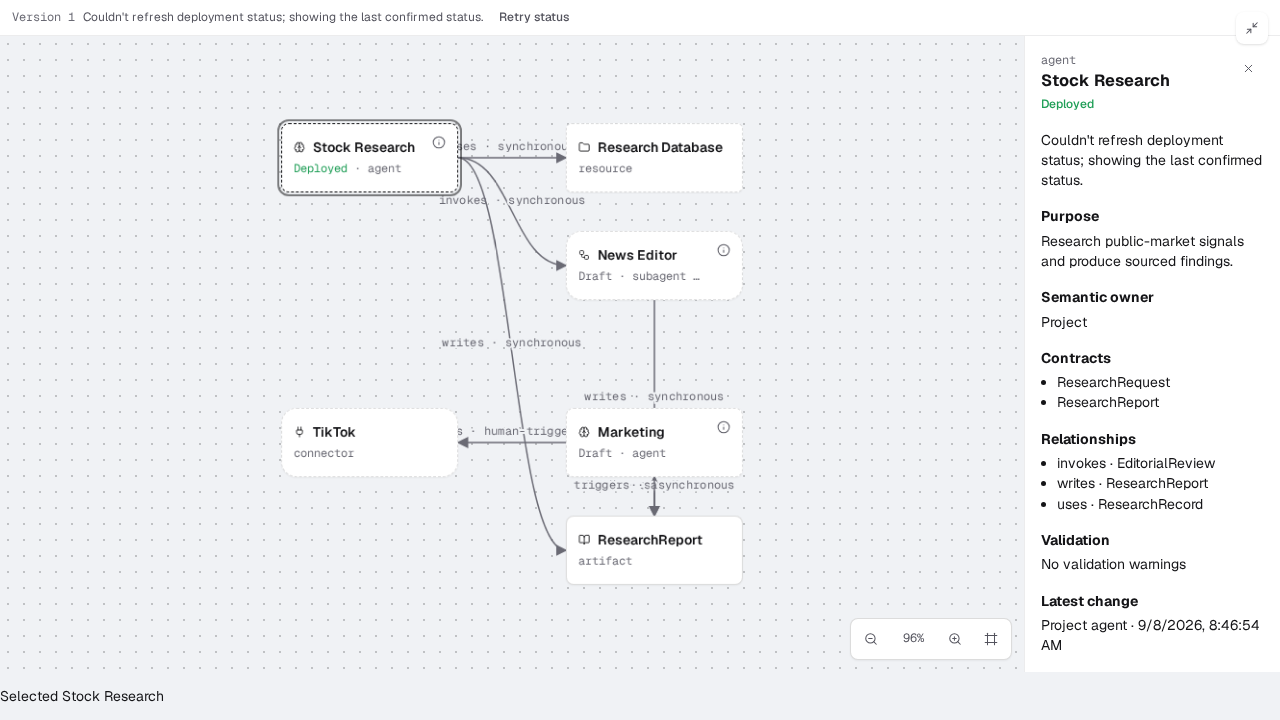
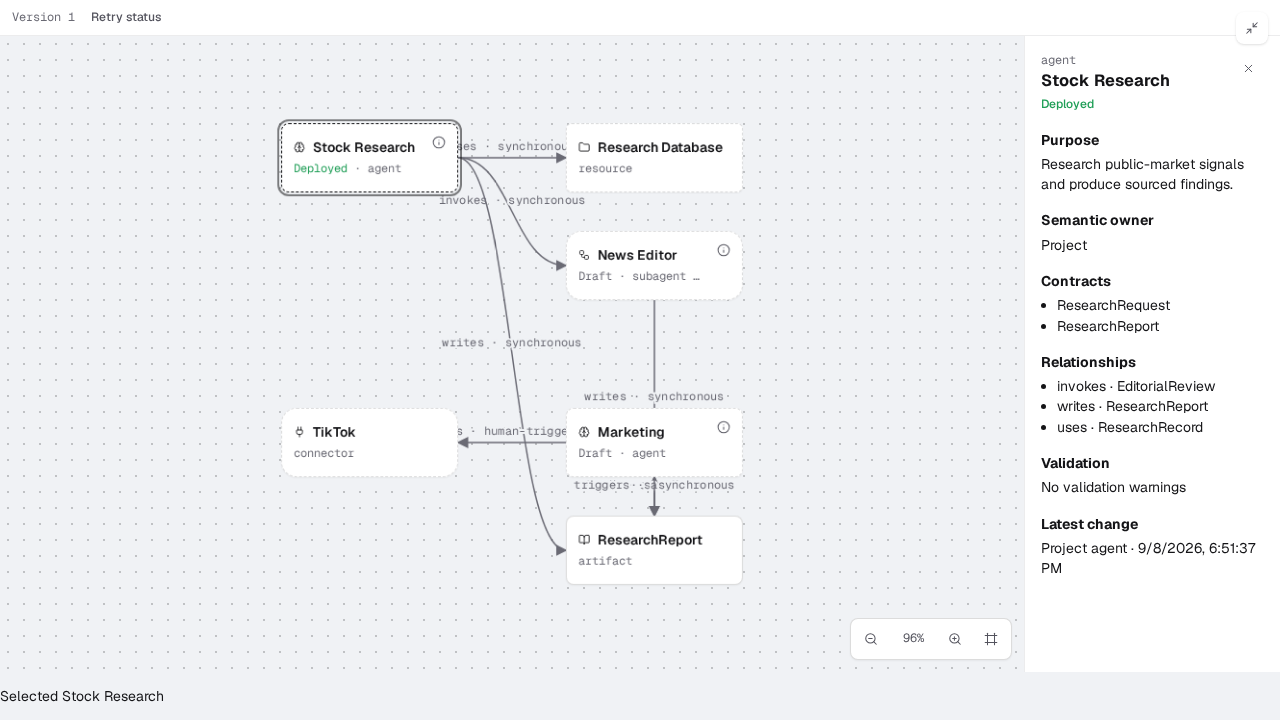
fix(harness): keep retained map indicators free of refresh explanations
Refs: SAP-3085

diff --git a/packages/harness/web/e2e/agent-map-deployment.spec.ts b/packages/harness/web/e2e/agent-map-deployment.spec.ts
@@ -230,10 +230,11 @@ for (const failure of ["bulk", "list", "nested"] as const) {
       "data-deployment-unavailable",
       "true",
     );
-    await expect(page.getByTestId("agent-map-deployment-error")).toContainText(
-      "last confirmed status",
-    );
-    await expect(inspector(page)).toContainText("last confirmed status");
+    await expect(page.getByTestId("agent-map-deployment-error")).toHaveText("Retry status");
+    await expect(node(page)).toHaveAttribute("title", "Deployed to Sapiom with a ready build.");
+    await expect(node(page)).toHaveAccessibleName(/Research, agent, Deployed$/);
+    await expect(inspector(page).locator(".status-tag")).toHaveText("Deployed");
+    await expect(inspector(page).getByRole("status")).toHaveCount(0);
     expect(
       await page.getByTestId("agent-map-subject").getAttribute("style"),
     ).toBe(transform);
@@ -251,6 +252,7 @@ for (const failure of ["bulk", "list", "nested"] as const) {
         "data-deployment-state",
         "draft",
       );
+      await expect(inspector(page).getByRole("status")).toHaveCount(0);
     }
     await patch(
       page,
@@ -292,6 +294,11 @@ test("an older bulk result cannot undo a rebind or a live map edit", async ({
   await expect(node(page)).toHaveAccessibleName(
     /Deployment status unavailable/,
   );
+  await expect(page.getByTestId("agent-map-deployment-error"))
+    .toContainText("Deployment status unavailable");
+  await patch(page, { resolution: "bound" }, null);
+  await page.getByRole("button", { name: "Retry status", exact: true }).click();
+  await expect(node(page)).toHaveAttribute("data-deployment-state", "deployed");
 });
 
 test("auth changes discard held ready responses and old display evidence", async ({

diff --git a/packages/harness/web/src/components/AgentMapPane.tsx b/packages/harness/web/src/components/AgentMapPane.tsx
@@ -18,10 +18,7 @@ import {
   agentMapDeployments,
   type AgentMapDeployments,
 } from "../lib/agent-map-deployment";
-import {
-  DEPLOYMENT_RETAINED,
-  DEPLOYMENT_UNAVAILABLE,
-} from "../lib/workflow-deployment";
+import { DEPLOYMENT_UNAVAILABLE } from "../lib/workflow-deployment";
 import {
   agentMapNavigationError,
   agentMapTargetWorkflow,
@@ -408,17 +405,10 @@ function PopulatedAgentMap({
             className="agent-map-deployment-message"
             role="status"
             data-testid="agent-map-deployment-error"
-            title={
-              failed.some((status) => status.indicator !== null)
-                ? DEPLOYMENT_RETAINED
-                : DEPLOYMENT_UNAVAILABLE
-            }
           >
-            <span>
-              {failed.some((status) => status.indicator !== null)
-                ? DEPLOYMENT_RETAINED
-                : DEPLOYMENT_UNAVAILABLE}
-            </span>
+            {failed.some((status) => status.indicator === null) && (
+              <span>{DEPLOYMENT_UNAVAILABLE}</span>
+            )}
             <button
               type="button"
               className="status-tag status-tag-action"

diff --git a/packages/harness/web/src/components/AgentMapCanvas.tsx b/packages/harness/web/src/components/AgentMapCanvas.tsx
@@ -322,7 +322,7 @@ export function AgentMapCanvas({
                   }
                   {...trackingAttrs({ object: "agent" })}
                   aria-pressed={selectedNodeId === node.id}
-                  aria-label={`${node.name}, ${node.kind}${deployment ? `, ${agentMapDeploymentLabel(deployment)}${deployment.indicator && deployment.unavailable ? `, ${agentMapDeploymentTitle(deployment)}` : ""}` : ""}`}
+                  aria-label={`${node.name}, ${node.kind}${deployment ? `, ${agentMapDeploymentLabel(deployment)}` : ""}`}
                   aria-busy={pendingNodeId === node.id}
                   onClick={(event) =>
                     onSelectNode(node.id, event.currentTarget)

diff --git a/packages/harness/web/src/lib/agent-map-deployment.ts b/packages/harness/web/src/lib/agent-map-deployment.ts
@@ -7,7 +7,6 @@ import type {
 import { AGENT_MAP_UUID_V7_PATTERN } from "@shared/agent-map-codec";
 import type { WorkflowInfo } from "@shared/types";
 import {
-  DEPLOYMENT_RETAINED,
   DEPLOYMENT_UNAVAILABLE,
   workflowDeploymentIndicator,
   workflowDeploymentTitle,
@@ -150,7 +149,5 @@ export function agentMapDeploymentLabel(
       : DEPLOYMENT_UNAVAILABLE;
 }
 export function agentMapDeploymentTitle(status: AgentMapDeployment): string {
-  return status.indicator && status.unavailable
-    ? DEPLOYMENT_RETAINED
-    : (status.title ?? agentMapDeploymentLabel(status));
+  return status.title ?? agentMapDeploymentLabel(status);
 }

diff --git a/packages/harness/web/src/components/AgentMapInspector.tsx b/packages/harness/web/src/components/AgentMapInspector.tsx
@@ -72,11 +72,13 @@ export function AgentMapInspector({
           </button>
         </div>
       </div>
-      {deployment?.unavailable && !deployment.loading && (
-        <section role="status">
-          <p>{agentMapDeploymentTitle(deployment)}</p>
-        </section>
-      )}
+      {deployment?.unavailable &&
+        !deployment.loading &&
+        deployment.indicator === null && (
+          <section role="status">
+            <p>{agentMapDeploymentTitle(deployment)}</p>
+          </section>
+        )}
       {openError && (
         <section role="status">
           <p>{openError}</p>

diff --git a/.changeset/agent-map-deployment-indicators.md b/.changeset/agent-map-deployment-indicators.md
@@ -2,4 +2,4 @@
 "@sapiom/harness": minor
 ---
 
-Replace Proposed with Draft and Deployed on Agent Map agent/subagent nodes and their inspector, using the same deployment evidence and tooltips as the rail cloud icon. Status recovery preserves the map and conversation. Non-agent nodes no longer display proposal status. Accessible node names follow these label changes, and the `data-proposal-state` DOM attribute is removed.
+Replace Proposed with Draft and Deployed on Agent Map agent/subagent nodes and their inspector, using the same deployment evidence and tooltips as the rail cloud icon. Failed checks retain confirmed indicators without an explanation; Retry status remains available. Status recovery preserves the map and conversation. Non-agent nodes no longer display proposal status. Accessible node names follow these label changes, and the `data-proposal-state` DOM attribute is removed.
